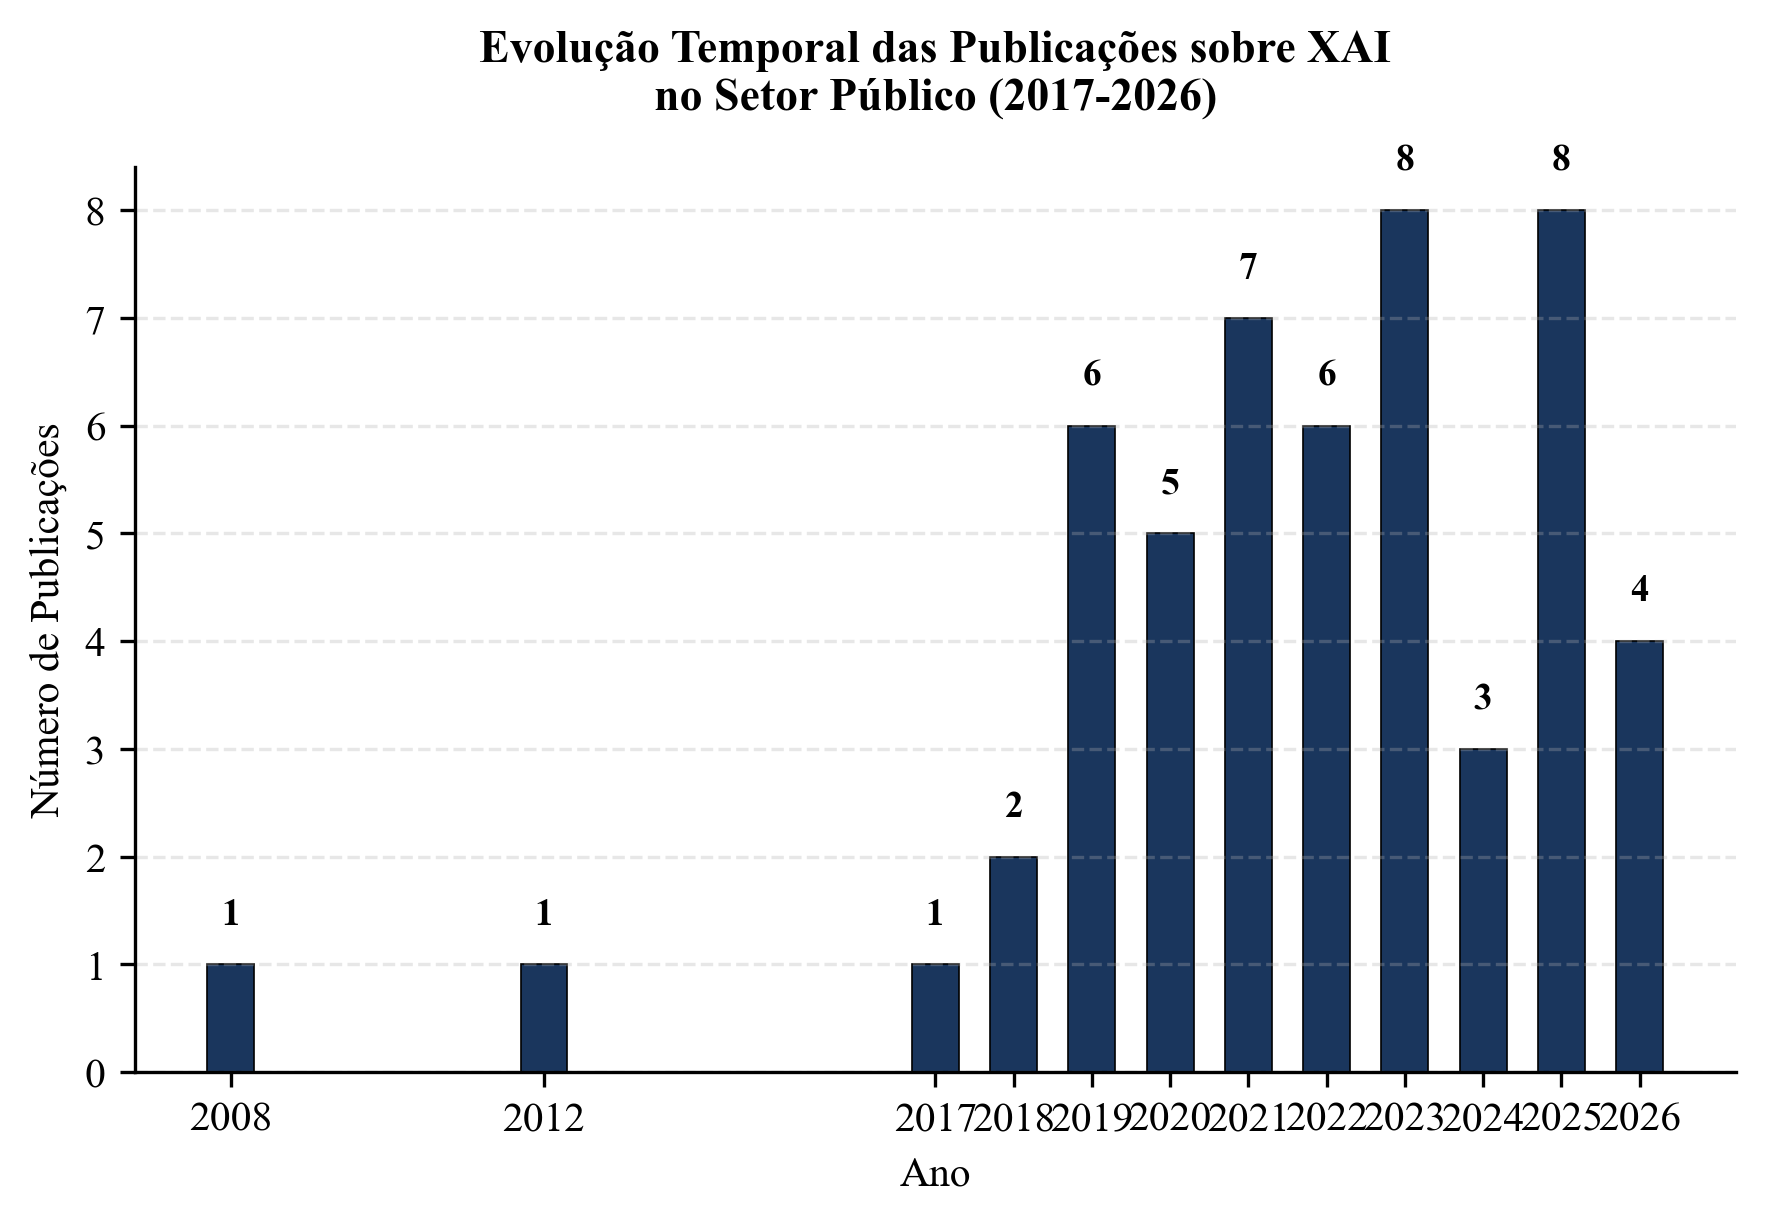
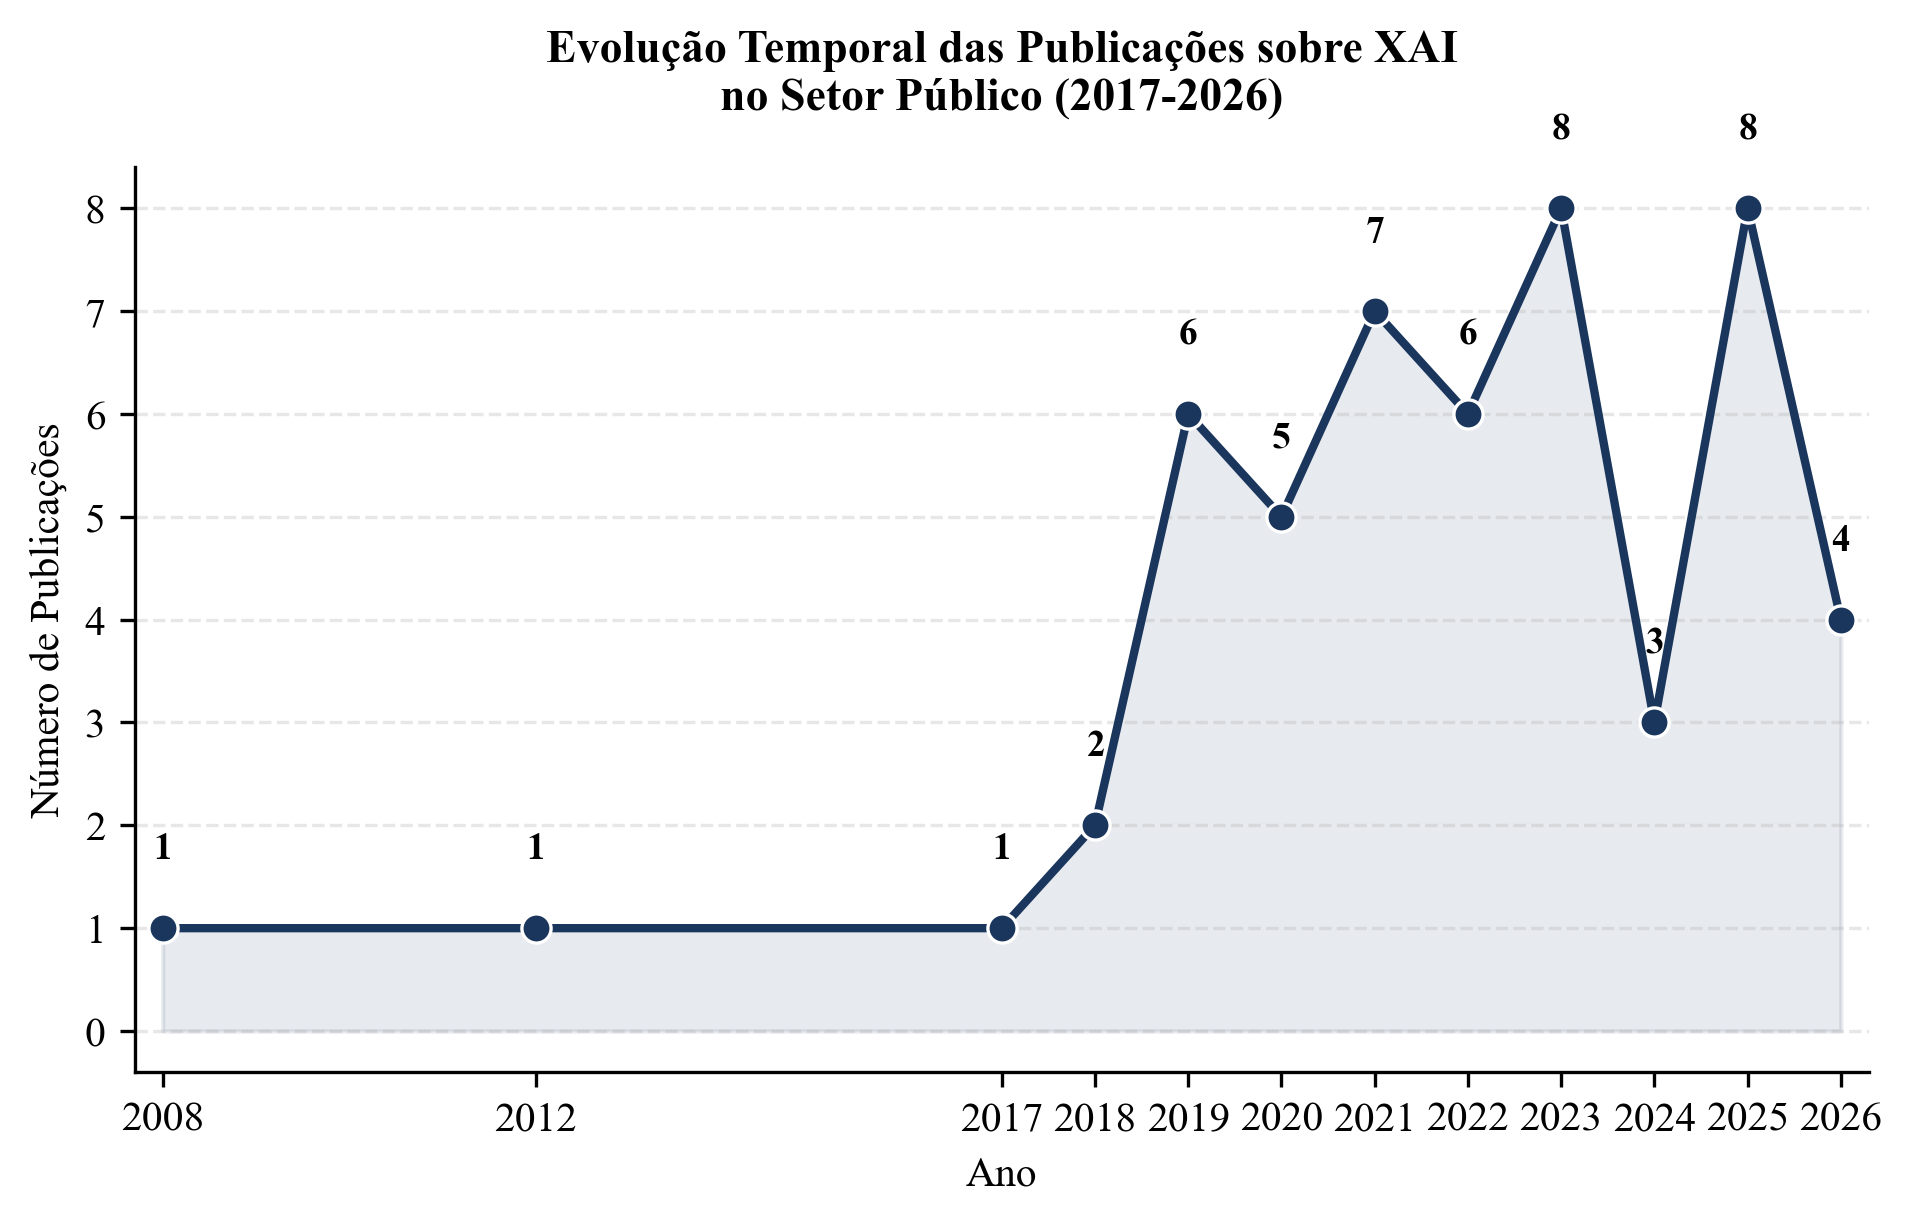
Fix figura 1: grafico de linha para serie temporal, anos sem sobreposicao

diff --git a/Artigos/16-Caixa-Preta-Setor-Publico-Revisao-Sistematica-XAI-Gestao-Publica/gerar_graficos.py b/Artigos/16-Caixa-Preta-Setor-Publico-Revisao-Sistematica-XAI-Gestao-Publica/gerar_graficos.py
@@ -29,18 +29,30 @@ with open(csv_path, "r", encoding="utf-8") as f:
             journals.append(j)
 
 # ============================================================
-# FIGURA 1: Publicacoes por Ano
+# FIGURA 1: Publicacoes por Ano (grafico de linha - serie temporal)
 # ============================================================
 year_counts = Counter(years)
 all_years = sorted(year_counts.keys())
 counts = [year_counts[y] for y in all_years]
 
-fig1, ax1 = plt.subplots(figsize=(6, 4.2))
-ax1.bar(all_years, counts, width=0.6, color="#1A365D", edgecolor="black", linewidth=0.4)
+fig1, ax1 = plt.subplots(figsize=(6.5, 4.2))
+ax1.plot(
+    all_years,
+    counts,
+    marker="o",
+    linestyle="-",
+    linewidth=2,
+    color="#1A365D",
+    markersize=7,
+    markerfacecolor="#1A365D",
+    markeredgecolor="white",
+    markeredgewidth=0.8,
+)
+ax1.fill_between(all_years, counts, alpha=0.10, color="#1A365D")
 for y_val, c_val in zip(all_years, counts):
     ax1.text(
         y_val,
-        c_val + 0.3,
+        c_val + 0.6,
         str(c_val),
         ha="center",
         va="bottom",
@@ -56,6 +68,7 @@ ax1.set_title(
     pad=14,
 )
 ax1.set_xticks(all_years)
+ax1.set_xlim(min(all_years) - 0.3, max(all_years) + 0.3)
 ax1.yaxis.set_major_locator(mticker.MaxNLocator(integer=True))
 ax1.spines["top"].set_visible(False)
 ax1.spines["right"].set_visible(False)